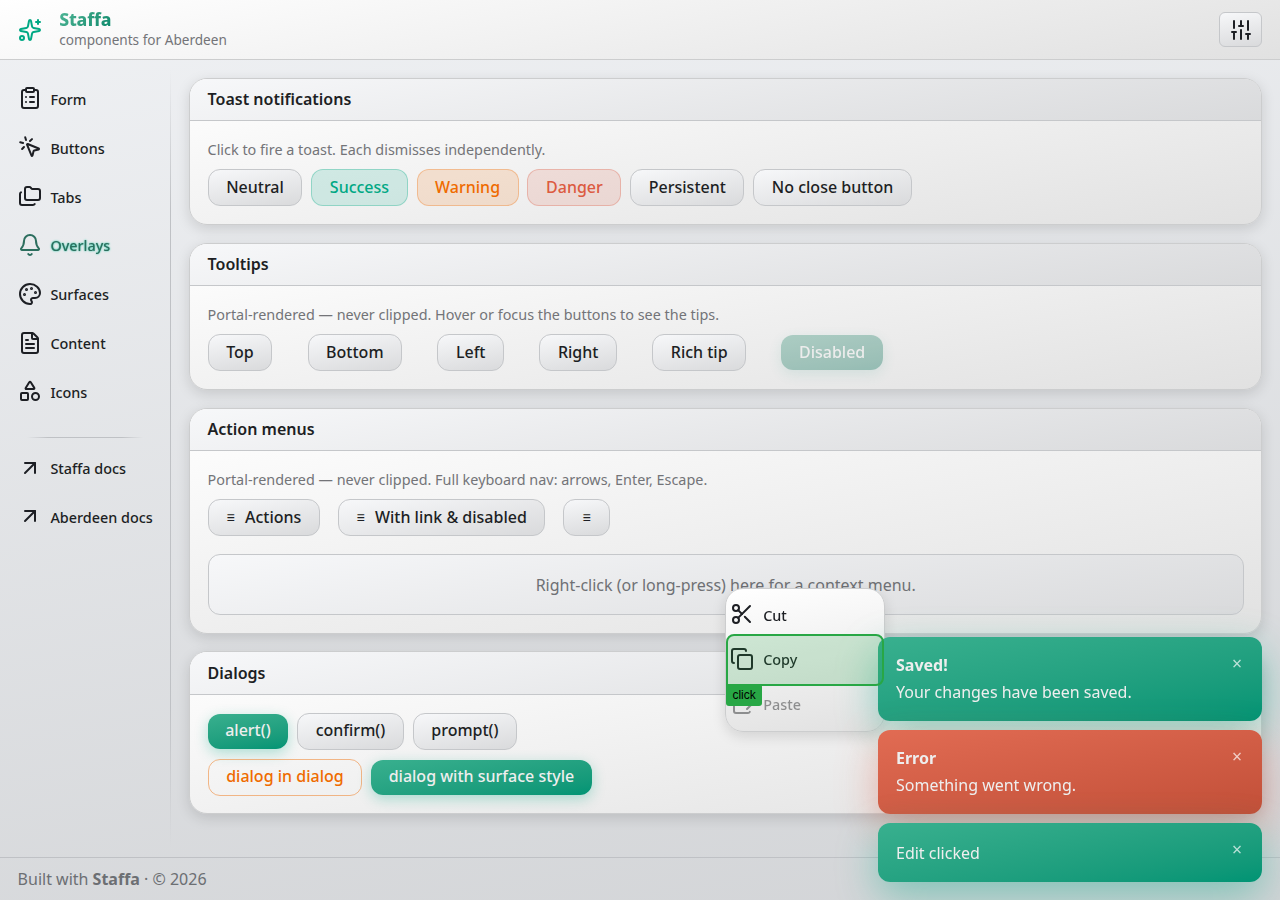
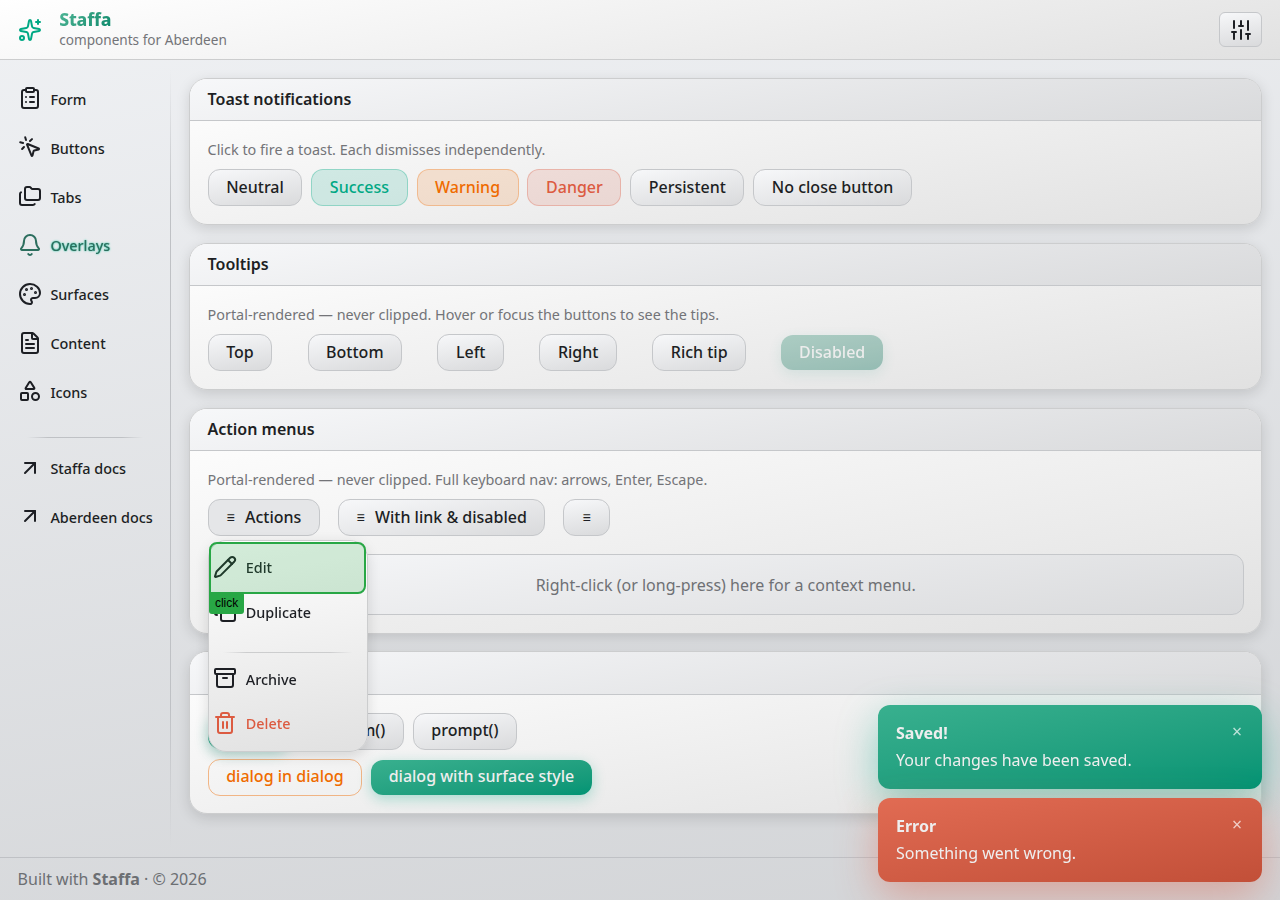
Stabilized test screenshot output

Changed region(s): [[0.5625, 0.6533, 1.0, 1.0], [0.1562, 0.5911, 0.3125, 0.84]]

diff --git a/tests/demo.spec.ts b/tests/demo.spec.ts
@@ -1,4 +1,4 @@
-import { test, expect } from "shotest";
+import { test, expect, type Page } from "shotest";
 
 // Click-through of every page of the Staffa demo. ShoTest screenshots each
 // wrapped action, so these double as a visual baseline for the whole library.
@@ -69,6 +69,11 @@ test("overlays: toasts, tooltips, menus and dialogs", async ({ page }) => {
 	// Tooltip on hover.
 	await page.getByRole("button", { name: "Rich tip" }).hover();
 	await page.getByText("in tips").waitFor();
+	// Move off and let the tooltip fully disappear before moving on: its hide is a
+	// 100 ms wall-clock timer, so otherwise it can still be lingering in the menu
+	// screenshots below (notably under load).
+	await page.mouse.move(0, 0);
+	await page.waitForSelector(".s-tt-tip", { state: "detached" });
 
 	// Action menu: open, pick an item, see the confirming toast.
 	await page.getByRole("button", { name: "Actions" }).click();
@@ -79,6 +84,13 @@ test("overlays: toasts, tooltips, menus and dialogs", async ({ page }) => {
 	await page.getByText("Right-click (or long-press)").click({ button: "right" });
 	await page.getByRole("button", { name: "Copy", exact: true }).click();
 	await page.getByText("Copied!").waitFor();
+
+	// The toasts fired above auto-dismiss on a wall clock (6 s), so by the time the
+	// dialog steps below run they're mid-expiry — present in some screenshots and
+	// gone in others depending on machine speed. Reload to a clean slate so the
+	// dialog screenshots are deterministic (no stray toasts straddling them).
+	await page.reload();
+	await page.getByText("Toast notifications").waitFor();
 
 	// alert() / confirm() / prompt()
 	await page.getByRole("button", { name: "alert()" }).click();
@@ -140,6 +152,7 @@ test("header: display settings live in a configure popover", async ({ page }) =>
 	await page.getByText("Navigation").waitFor();
 	await page.getByText("Primary colour").waitFor();
 	await page.getByText("Theme").waitFor();
+	await settleMenu(page);
 
 	// A pick inside the popover drives the live theme.
 	await page.getByRole("button", { name: "dark" }).click();
@@ -152,6 +165,7 @@ test("menu: dropdown autofocuses its first focusable control", async ({ page }) 
 	// still move focus to the first focusable control inside it.
 	await page.getByRole("button", { name: "Display settings" }).click();
 	await page.getByText("Navigation").waitFor();
+	await settleMenu(page);
 	const focused = page.locator(".s-menu-list :focus");
 	await expect(focused).toHaveCount(1);
 });
@@ -161,6 +175,7 @@ test("dark mode: surfaces and buttons", async ({ page }) => {
 	await page.getByText("Surfaces & Variants").waitFor();
 	// The theme switch lives in the header's configure popover.
 	await page.getByRole("button", { name: "Display settings" }).click();
+	await settleMenu(page);
 	await page.getByRole("button", { name: "dark" }).click();
 	await page.getByRole("link", { name: "Buttons" }).click();
 	await page.getByText("Variants & sizes").waitFor();
@@ -210,3 +225,15 @@ test("nav: the dropdown reopens right after closing", async ({ page }) => {
 	await page.keyboard.press("Escape"); // reopen, ignoring the fading-out panel
 	await expect(openMenu).toHaveCount(1);
 });
+
+// A floating menu/popover fades in via a `.hidden` → opaque transition. Playwright's
+// visibility (and ShoTest's waitFor) ignores opacity, so a panel that is technically
+// "visible" can still be mid-fade — present in some screenshots and faded/absent in
+// others. Wait for it to fully settle before the next screenshot. (waitForFunction
+// isn't wrapped by ShoTest, so this adds no screenshot of its own.)
+function settleMenu(page: Page) {
+	return page.waitForFunction(() => {
+		const m = document.querySelector(".s-menu-list");
+		return !!m && !m.classList.contains("hidden") && getComputedStyle(m).opacity === "1";
+	});
+}

diff --git a/playwright.config.ts b/playwright.config.ts
@@ -6,7 +6,10 @@ export default defineConfig({
 		screenshot: "off", // ShoTest captures its own screenshots
 		viewport: { width: 1280, height: 900 },
 	},
-	timeout: 15000,
+	// The overlays test now reloads mid-run (to clear auto-dismissing toasts before
+	// the dialog steps); with its many wrapped, screenshotted steps that lands it
+	// around 15 s, so give every test comfortable headroom.
+	timeout: 30000,
 	workers: 1,
 	webServer: [
 		{
